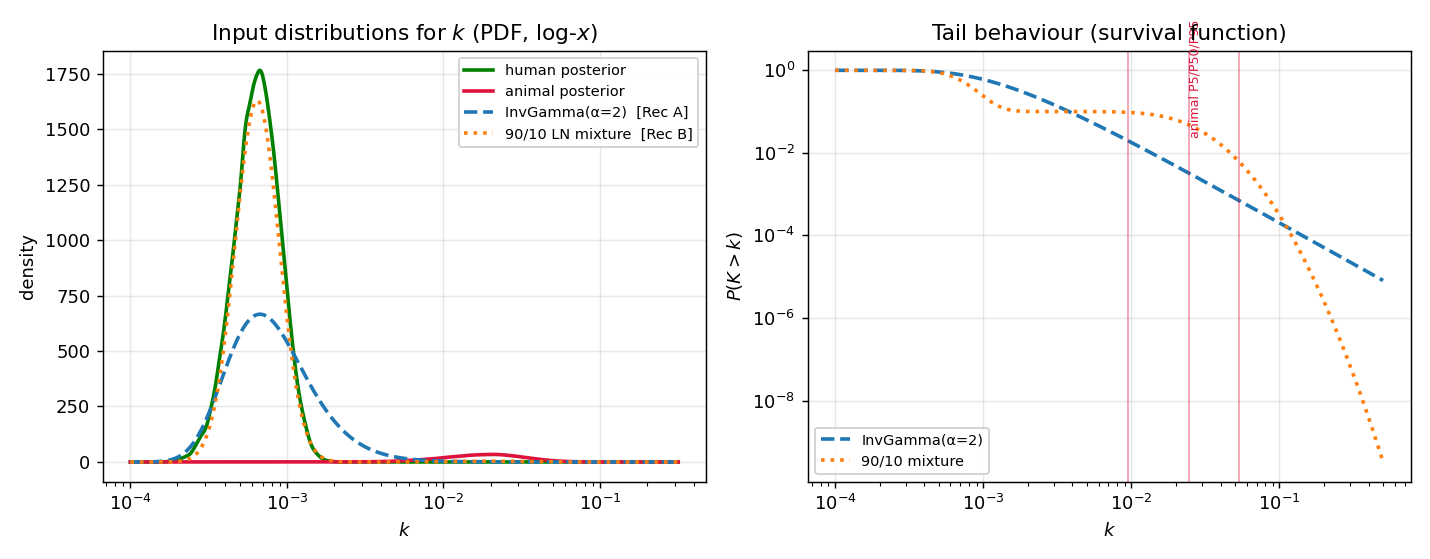
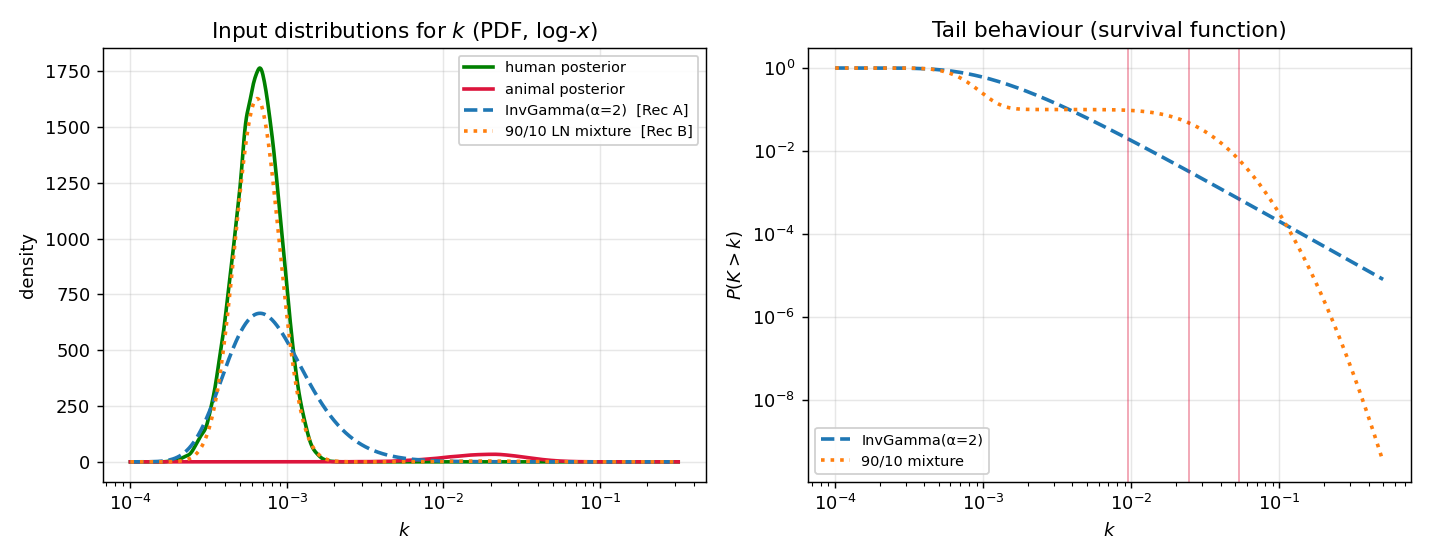
feat(app): collapsible accordion for the Documentation page
Render theory.md as an accordion — each top-level section in an
  st.expander (titles form a TOC, §1 open by default); the version footer
  renders below the accordion rather than inside the collapsed References
  section. Figure-splitting (st.image) and KaTeX (st.markdown) rendering
  are unchanged, and theory.md stays a single document that still renders
  as one page on GitHub.

  Also fix a cosmetic defect in fig3 (overlapping rotated P5/P50/P95
  label) and regenerate it; TODO notes the accordion and records that
  inline LaTeX in Streamlit tables renders correctly (verified via
  screenshots).

diff --git a/pages/1_Documentation.py b/pages/1_Documentation.py
@@ -17,16 +17,55 @@ st.set_page_config(page_title="Documentation — Residual HIV-TT Risk Estimator"
 DOCS = Path(__file__).parent.parent / "docs"
 text = (DOCS / "theory.md").read_text()
 
-# Render theory.md. Text (including $…$ / $$…$$ LaTeX) is rendered with
-# st.markdown; figure references are split out and rendered with st.image,
-# because st.markdown does not load relative local image paths. re.split with a
-# capturing group yields [text, path, text, path, …] — odd indices are paths.
-for i, part in enumerate(re.split(r"!\[[^\]]*\]\(([^)]+)\)", text)):
-    if i % 2 == 1:  # captured image path, e.g. "figures/fig1_dose_response.png"
-        img = DOCS / part
-        if img.exists():
-            st.image(str(img), width="stretch")
-        else:
-            st.warning(f"Figure not found: {part}")
-    elif part.strip():
-        st.markdown(part)
+# Pattern for a markdown image reference: ![alt](path).
+_IMG = re.compile(r"!\[[^\]]*\]\(([^)]+)\)")
+# Pattern for a top-level section heading ("## 3. ...") at line start. Two
+# hashes only — "### " subsections stay within their parent section.
+_SECTION = re.compile(r"(?m)^## (.+)$")
+
+
+def render_markdown_with_figures(md: str) -> None:
+    """Render markdown text (including ``$…$`` / ``$$…$$`` KaTeX), splitting out
+    figure references to ``st.image`` because ``st.markdown`` does not load
+    relative local image paths. ``re.split`` with a capturing group yields
+    ``[text, path, text, path, …]`` — odd indices are captured paths."""
+    for i, part in enumerate(_IMG.split(md)):
+        if i % 2 == 1:  # captured image path, e.g. "figures/fig1_dose_response.png"
+            img = DOCS / part
+            if img.exists():
+                st.image(str(img), width="stretch")
+            else:
+                st.warning(f"Figure not found: {part}")
+        elif part.strip():
+            st.markdown(part)
+
+
+# Peel a short trailing footer (the note after the document's final horizontal
+# rule) so it renders below the accordion instead of being buried in the
+# collapsed References expander. Guarded so it only fires on a genuine short
+# trailing note (no section heading, modest length).
+body_text, sep, footer = text.rpartition("\n---\n")
+if not sep or "## " in footer or len(footer) > 800:
+    body_text, footer = text, ""
+
+# Split the body into a preamble (title + intro, before the first "## " section)
+# and the numbered sections. The preamble stays visible; each section is rendered
+# inside a collapsible expander titled by its heading, so the page opens as a
+# scannable table of contents. theory.md itself remains a single document (it
+# still renders as one page on GitHub) — the accordion is purely a presentation
+# layer here.
+matches = list(_SECTION.finditer(body_text))
+preamble = body_text[: matches[0].start()] if matches else body_text
+render_markdown_with_figures(preamble)
+
+for idx, m in enumerate(matches):
+    title = m.group(1).strip()
+    body_start = m.end()
+    body_end = matches[idx + 1].start() if idx + 1 < len(matches) else len(body_text)
+    body = body_text[body_start:body_end]
+    with st.expander(title, expanded=(idx == 0)):  # §1 open by default
+        render_markdown_with_figures(body)
+
+if footer.strip():
+    st.markdown("---")
+    render_markdown_with_figures(footer)

diff --git a/docs/figures/make_theory_figures.py b/docs/figures/make_theory_figures.py
@@ -137,9 +137,7 @@ def fig3_k_distributions():
     ax.plot(xs, 0.9 * hc.sf(xs) + 0.1 * ac.sf(xs), color="C1", ls=":", lw=2,
             label="90/10 mixture")
     for p in (np.percentile(ka, 5), np.median(ka), np.percentile(ka, 95)):
-        ax.axvline(p, color="crimson", alpha=0.4, lw=1)
-    ax.text(np.median(ka), 0.5, "  animal P5/P50/P95", color="crimson",
-            fontsize=7, rotation=90, va="center")
+        ax.axvline(p, color="crimson", alpha=0.4, lw=1)  # animal P5/P50/P95 (see caption)
     ax.set_xscale("log")
     ax.set_yscale("log")
     ax.set_xlabel("$k$")

diff --git a/TODO.md b/TODO.md
@@ -31,14 +31,19 @@ figures generated. **Awaiting EG review.**
       Jeffreys-Gamma posterior; CI vs CrI distinction)
 - [x] §8 Default parameters & worked example · §9 References
 - [x] Three explanatory figures (dose-response; IWP construction; k input distributions)
-- [x] Wired into the app: `pages/1_Documentation.py` renders `theory.md`, splitting
-      figure references out to `st.image` (st.markdown does not load relative local
-      images) and rendering text/LaTeX via `st.markdown`
+- [x] Wired into the app: `pages/1_Documentation.py` renders `theory.md` as a
+      collapsible accordion — each top-level `## ` section in an `st.expander`
+      (titles form the TOC, §1 open by default), with figure references split out to
+      `st.image` (st.markdown does not load relative local images) and text/LaTeX
+      rendered via `st.markdown`
+- [x] Visual check that LaTeX renders in `st.markdown` — **confirmed (2026-05-29)**
+      via rendered screenshots: display/inline KaTeX and `$…$` inside the
+      notation/parameter/k-distribution **tables** all typeset correctly in
+      Streamlit 1.58 (the one KaTeX-in-Streamlit nuance I could not verify headless).
+      Also fixed a cosmetic figure defect (an overlapping rotated label in fig3) and
+      regenerated the figure.
 - [ ] **EG review pass** (verify equations, prose, citations; confirm worked-example
       numbers)
-- [ ] Visual check that LaTeX renders in `st.markdown` — especially `$…$` inside the
-      notation/parameter/k-distribution **tables** (the one KaTeX-in-Streamlit nuance
-      I could not verify headless)
 - [ ] _(later)_ PrEP model documentation — on the PrEP branch
 
 ## Completed
